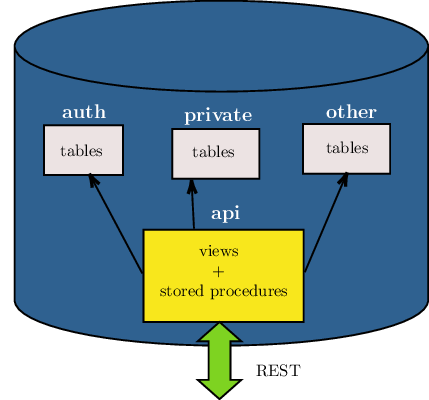
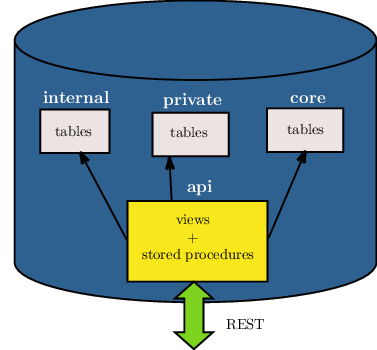
Add wording for schema structure

diff --git a/diagrams/db.tex b/diagrams/db.tex
@@ -19,7 +19,7 @@
 
 \begin{document}
 
-\newcommand\customScale{0.4}
+\newcommand\customScale{0.35}
 
 \begin{tikzpicture}[x=0.75pt,y=0.75pt,yscale=-1,xscale=1, scale=\customScale, every node/.style={scale=\customScale}]
 
@@ -57,11 +57,11 @@
 % Text Node
 \draw (322,178) node [anchor=north west][inner sep=0.75pt]  [color={rgb, 255:red, 255; green, 255; blue, 255 }  ,opacity=1 ] [align=left] {\large\textbf{api}};
 % Text Node
-\draw (202,97) node [anchor=north west][inner sep=0.75pt]  [color={rgb, 255:red, 255; green, 255; blue, 255 }  ,opacity=1 ] [align=left] {\large\textbf{auth}};
+\draw (190,97) node [anchor=north west][inner sep=0.75pt]  [color={rgb, 255:red, 255; green, 255; blue, 255 }  ,opacity=1 ] [align=left] {\large\textbf{internal}};
 % Text Node
 \draw (300,99) node [anchor=north west][inner sep=0.75pt]  [color={rgb, 255:red, 255; green, 255; blue, 255 }  ,opacity=1 ] [align=left] {\large\textbf{private}};
 % Text Node
-\draw (414,97) node [anchor=north west][inner sep=0.75pt]  [color={rgb, 255:red, 255; green, 255; blue, 255 }  ,opacity=1 ] [align=left] {\large\textbf{other}};
+\draw (417,101) node [anchor=north west][inner sep=0.75pt]  [color={rgb, 255:red, 255; green, 255; blue, 255 }  ,opacity=1 ] [align=left] {\large\textbf{core}};
 % Text Node
 \draw (358,306) node [anchor=north west][inner sep=0.75pt]   [align=left] {REST};
 

diff --git a/best_practices.rst b/best_practices.rst
@@ -1,14 +1,20 @@
 
-Schema structure
-----------------
+.. _schema_structure:
+
+Schema Structure
+================
+
+A PostgREST instance exposes all the tables, views, and stored procedures of a single `PostgreSQL schema <https://www.postgresql.org/docs/12/ddl-schemas.html>`_ (a namespace of database objects). This means private data or implementation details can go inside different private schemas and be invisible to HTTP clients.
+
+It is recommended that you don't expose tables on your API schema. Instead expose views and stored procedures which insulate the internal details from the outside world.
+This allows you to change the internals of your schema and maintain backwards compatibility. It also keeps your code easier to refactor, and provides a natural way to do API versioning.
 
 .. image:: _static/db.png
-   :align: center
 
 .. _func_privs:
 
 Function privileges
--------------------
+===================
 
 By default, when a function is created, the privilege to execute it is not restricted by role. The function access is PUBLIC—executable by all roles(more details at `PostgreSQL Privileges page <https://www.postgresql.org/docs/12/ddl-priv.html>`_). This is not ideal for an API schema. To disable this behavior, you can run the following SQL statement:
 
@@ -17,7 +23,7 @@ By default, when a function is created, the privilege to execute it is not restr
   -- Assuming your schema is named "api"
   ALTER DEFAULT PRIVILEGES IN SCHEMA api REVOKE EXECUTE ON FUNCTIONS FROM PUBLIC;
 
-  -- Or to stop functions from being executable in the whole database(note the removal of the IN SCHEMA part).
+  -- Or to stop functions from being PUBLICly executable in the whole database
   ALTER DEFAULT PRIVILEGES REVOKE EXECUTE ON FUNCTIONS FROM PUBLIC;
 
 See `PostgreSQL alter default privileges <https://www.postgresql.org/docs/current/static/sql-alterdefaultprivileges.html>`_ for more details.
@@ -40,7 +46,7 @@ By default, a function is executed with the privileges of the user who calls it.
 Another option is to define the function with the :code:`SECURITY DEFINER` option. Then only one permission check will take place, the permission to call the function, and the operations in the function will have the authority of the user who owns the function itself. See `PostgreSQL documentation <https://www.postgresql.org/docs/current/static/sql-createfunction.html#SQL-CREATEFUNCTION-SECURITY>`_ for more details.
 
 Views with RLS
---------------
+==============
 
 Views are invoked with the privileges of the view owner, much like stored procedures with the ``SECURITY DEFINER`` option. When created by a SUPERUSER role, all `row-level security <https://www.postgresql.org/docs/current/static/ddl-rowsecurity.html>`_ will be bypassed unless a different, non-SUPERUSER owner is specified.
 
@@ -53,7 +59,7 @@ Views are invoked with the privileges of the view owner, much like stored proced
  ALTER VIEW sample_view OWNER TO api_views_owner;
 
 Views with Rules
-----------------
+================
 
 Insertion on VIEWs with complex `RULEs <https://www.postgresql.org/docs/11/sql-createrule.html>`_ might not work out of the box with PostgREST.
 It's recommended that you `use triggers instead of RULEs <https://wiki.postgresql.org/wiki/Don%27t_Do_This#Don.27t_use_rules>`_.

diff --git a/auth.rst b/auth.rst
@@ -298,7 +298,7 @@ PostgREST uses JWT mainly for authentication and authorization purposes and enco
 Schema Isolation
 ================
 
-A PostgREST instance is configured to expose all the tables, views, and stored procedures of a single schema specified in a server configuration file. This means private data or implementation details can go inside a private schema and be invisible to HTTP clients. You can then expose views and stored procedures which insulate the internal details from the outside world. It keeps you code easier to refactor, and provides a natural way to do API versioning. For an example of wrapping a private table with a public view see the :ref:`public_ui` section below.
+You can isolate your api schema from internal implementation details, as explained in :ref:`schema_structure`. For an example of wrapping a private table with a public view see the :ref:`public_ui` section below.
 
 SQL User Management
 ===================

diff --git a/diagrams/README.md b/diagrams/README.md
@@ -15,7 +15,7 @@ The schema structure diagram is done with LaTeX. You can use a GUI like https://
 Then use this command to generate the png file.
 
 ```bash
-pdflatex --shell-escape -halt-on-error -output-directory ../_static db.tex
+pdflatex --shell-escape -halt-on-error db.tex
 
 ## and move it to the static folder(it's not easy to do it in one go with the pdflatex)
 mv db.png ../_static/
@@ -27,4 +27,14 @@ You can install the full latex suite with `nix`:
 
 ```
 nix-env -iA texlive.combined.scheme-full
+```
+
+To tweak the file with a live reload environment use:
+
+```bash
+# open the pdf(zathura used as an example)
+zathura db.pdf &
+
+# live reload with entr
+echo db.tex | entr pdflatex --shell-escape -halt-on-error db.tex
 ```
